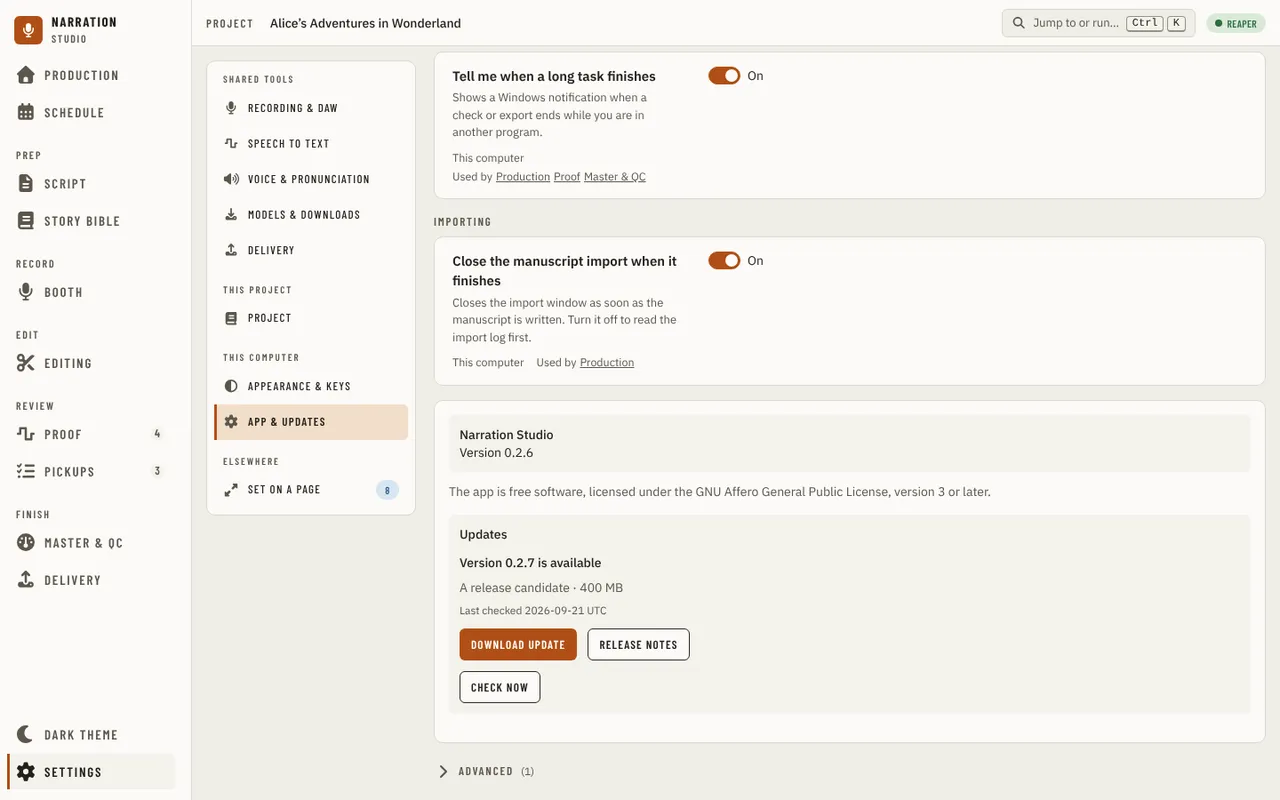
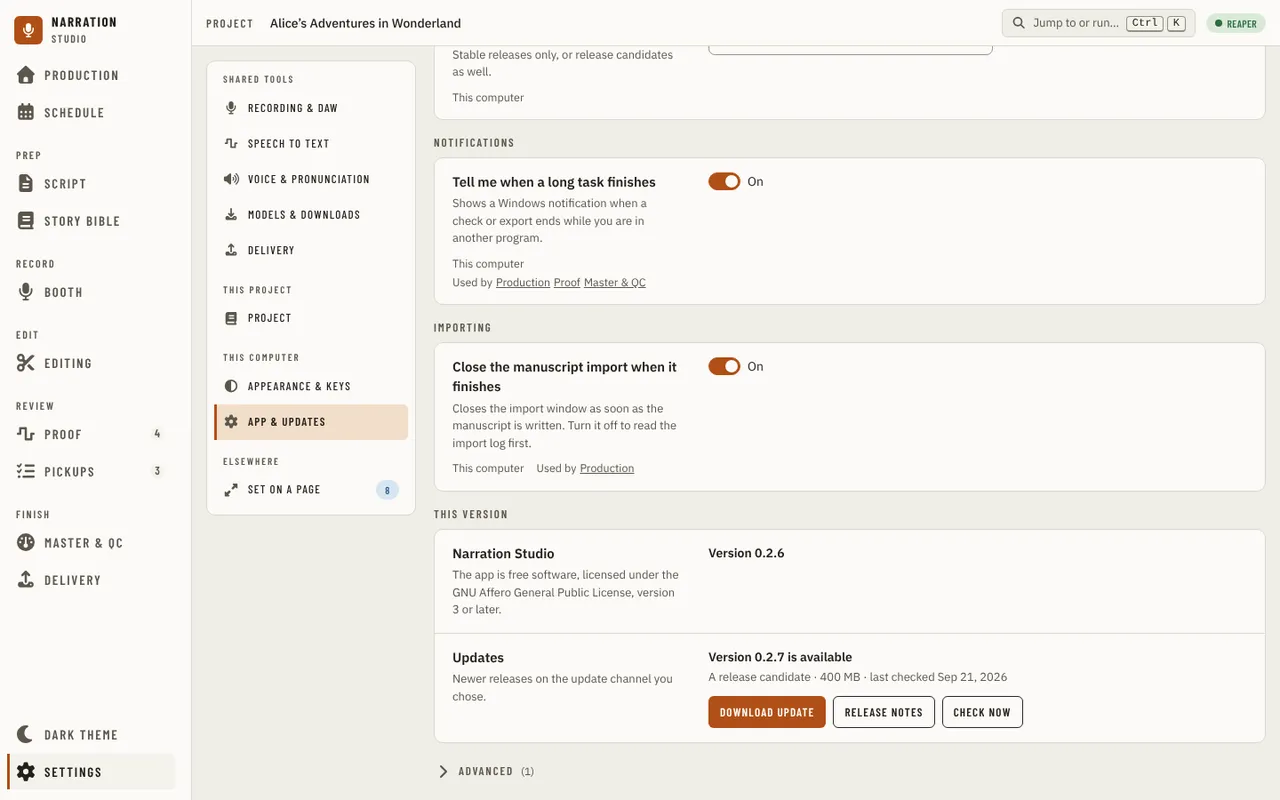
fix(settings): This version is two labelled rows with one status line and one button row (#2389)

Changed region(s): [[0.3438, 0.0625, 0.7812, 0.875], [0.5312, 0.8125, 0.8125, 0.9375], [0.5625, 0.6875, 0.5938, 0.7188]]

diff --git a/src/studio/ui/src/components/settings/UpdatesPanel.tsx b/src/studio/ui/src/components/settings/UpdatesPanel.tsx
@@ -10,9 +10,13 @@ import { brand } from '../../brand.gen';
 
 const BYTES_PER_MB = 1024 * 1024;
 
-/** The day of a check, from the host's ISO time (UTC), so the words do not change with the locale or the time zone. */
+const capitalise = (text: string): string => text.charAt(0).toUpperCase() + text.slice(1);
+
+/** The day of a check, from the host's ISO time, as the app writes a date elsewhere ("Sep 21, 2026"); read in UTC so the day does not change with the time zone. */
 function checkedDay(lastChecked: string): string {
-  return `${lastChecked.slice(0, 10)} UTC`;
+  const day = new Date(lastChecked);
+  if (Number.isNaN(day.getTime())) return lastChecked.slice(0, 10);
+  return day.toLocaleDateString('en-US', { month: 'short', day: 'numeric', year: 'numeric', timeZone: 'UTC' });
 }
 
 /**
@@ -92,74 +96,65 @@ export function UpdatesPanel() {
   );
 
   const errorAlert = error && (
-    <p role="alert" style={{ color: 'var(--danger-text)' }}>
+    <p role="alert" className="m-0 text-[var(--danger-text)]">
       {error}
     </p>
   );
-  if (!status) {
-    return errorAlert ? (
-      <div className="mb-4 rounded-md p-3 text-sm" style={{ background: 'var(--review-soft)' }}>
-        {errorAlert}
-      </div>
-    ) : null;
-  }
+  if (!status) return errorAlert ? <div className="flex flex-col gap-2 text-[0.875rem]">{errorAlert}</div> : null;
 
   const available = status.available;
+  // One headline, one muted detail line (the release, whether it is downloaded, when the app last looked), then any failure right under
+  // them, then one row of buttons with the main action first and Check now last (alignment audit R3SE1-5, XSE1-6).
+  const detail = [
+    available ? `${available.candidate ? 'A release candidate' : 'A release'} · ${Math.round(available.size / BYTES_PER_MB)} MB` : '',
+    available?.replaces && status.downloaded ? 'downloaded and checked' : '',
+    status.lastChecked ? `last checked ${checkedDay(status.lastChecked)}` : '',
+  ].filter(Boolean);
   return (
-    <div className="mb-4 space-y-3 rounded-md p-3 text-sm" style={{ background: 'var(--surface-2)' }}>
-      <div className="font-medium">Updates</div>
+    <div className="flex flex-col items-start gap-2 text-[0.875rem]" data-updates>
       {status.development ? (
-        <p style={{ color: 'var(--text-muted)' }}>Update checks are for releases. A development build is never offered an update.</p>
+        <p className="m-0 text-[var(--text-muted)]">Update checks are for releases. A development build is never offered an update.</p>
       ) : !status.platform ? (
-        <p style={{ color: 'var(--text-muted)' }}>The app has no release for this kind of computer, so there is nothing to update to.</p>
+        <p className="m-0 text-[var(--text-muted)]">The app has no release for this kind of computer, so there is nothing to update to.</p>
       ) : (
         <>
           {/* One live region for the result, so a screen reader hears what a check found; it is remembered state, not an alert. */}
-          <div role="status" className="space-y-2">
+          <div role="status" className="flex flex-col gap-0.5">
             {available ? (
-              <>
-                <div className="font-medium">Version {available.version} is available</div>
-                <div style={{ color: 'var(--text-muted)' }}>
-                  {available.candidate ? 'A release candidate' : 'A release'} · {Math.round(available.size / BYTES_PER_MB)} MB
-                </div>
-                {available.replaces && status.downloaded && <p>Version {status.downloaded.version} is downloaded and checked.</p>}
-                {available.replaces && status.downloaded && !status.canInstall && <p style={{ color: 'var(--text-muted)' }}>{status.installBlockedReason}</p>}
-                {!available.replaces && (
-                  <p style={{ color: 'var(--text-muted)' }}>
-                    This platform does not update itself. Open the release notes to download it from the release page.
-                  </p>
-                )}
-              </>
+              <b className="font-semibold">Version {available.version} is available</b>
             ) : status.failure ? null : status.lastChecked ? (
-              <p>You have the latest version.</p>
+              <b className="font-semibold">You have the latest version.</b>
             ) : (
-              <p>Not checked yet.</p>
+              <b className="font-semibold">Not checked yet.</b>
             )}
-            {status.lastChecked && (
-              <p className="text-xs" style={{ color: 'var(--text-muted)' }}>
-                Last checked {checkedDay(status.lastChecked)}
+            {status.failure && <p className="m-0 text-[var(--danger-text)]">{status.failure}</p>}
+            {detail.length > 0 && <p className="m-0 text-[0.8125rem] text-[var(--text-muted)]">{capitalise(detail.join(' · '))}</p>}
+            {available?.replaces && status.downloaded && !status.canInstall && (
+              <p className="m-0 text-[0.8125rem] text-[var(--text-muted)]">{status.installBlockedReason}</p>
+            )}
+            {available && !available.replaces && (
+              <p className="m-0 text-[0.8125rem] text-[var(--text-muted)]">
+                This platform does not update itself. Open the release notes to download it from the release page.
               </p>
             )}
-            {status.failure && <p style={{ color: 'var(--danger-text)' }}>{status.failure}</p>}
           </div>
-          {available && (
-            <div className="flex flex-wrap items-center gap-3">
-              {available.replaces && !status.downloaded && <Button onClick={() => setConfirming(true)}>Download update</Button>}
-              {available.replaces && status.downloaded && status.canInstall && <Button onClick={() => setConfirmingInstall(true)}>Install and restart</Button>}
-              {available.replaces && status.downloaded && !status.canInstall && <Button onClick={showDownload}>Show the downloaded file</Button>}
+          {errorAlert}
+          <div className="mt-1 flex flex-wrap items-center gap-2">
+            {available?.replaces && !status.downloaded && <Button onClick={() => setConfirming(true)}>Download update</Button>}
+            {available?.replaces && status.downloaded && status.canInstall && <Button onClick={() => setConfirmingInstall(true)}>Install and restart</Button>}
+            {available?.replaces && status.downloaded && !status.canInstall && <Button onClick={showDownload}>Show the downloaded file</Button>}
+            {available && (
               <Button variant="secondary" aria-label="Release notes (opens in your browser)" onClick={openNotes}>
                 Release notes
               </Button>
-            </div>
-          )}
-          <div className="flex flex-wrap items-center gap-3">
+            )}
             <Button ref={checkButton} variant="secondary" disabled={checking} onClick={() => void check()}>
               {checking ? 'Checking…' : 'Check now'}
             </Button>
           </div>
         </>
       )}
-      {errorAlert}
+      {(status.development || !status.platform) && errorAlert}
       {confirming && available && (
         <ConfirmDialog
           title={`Download version ${available.version}?`}

diff --git a/src/studio/ui/src/components/settings/UpdatesPanel.test.tsx b/src/studio/ui/src/components/settings/UpdatesPanel.test.tsx
@@ -30,7 +30,7 @@ describe('UpdatesPanel', () => {
     renderPanel(undefined);
     fireEvent.click(await screen.findByRole('button', { name: 'Check now' }));
     expect(await screen.findByText(/You have the latest version/)).toBeTruthy();
-    expect(screen.getByText(/Last checked 2026-09-21/)).toBeTruthy();
+    expect(screen.getByText(/last checked Sep 21, 2026/i)).toBeTruthy();
   });
 
   it('shows a newer release with its version, size and channel, and opens its release notes', async () => {
@@ -198,7 +198,7 @@ describe('UpdatesPanel, downloading', () => {
       expect(await screen.findByRole('dialog', { name: `Download ${brand.name} 0.2.7` })).toBeTruthy();
       await act(async () => void (await vi.advanceTimersByTimeAsync(4000)));
       fireEvent.click(await screen.findByRole('button', { name: 'Close' }));
-      expect((await screen.findAllByText('Version 0.2.7 is downloaded and checked.')).length).toBeGreaterThan(0);
+      expect(await screen.findByText(/downloaded and checked/)).toBeTruthy();
       expect(screen.queryByRole('button', { name: 'Download update' })).toBeNull();
       expect(screen.getByRole('button', { name: 'Install and restart' })).toBeTruthy();
     } finally {
@@ -213,6 +213,34 @@ describe('UpdatesPanel, downloading', () => {
     renderPanel('available', { updateStatus: async () => ({ ...found, available: { ...available, replaces: false } }) });
     await screen.findByText(/does not update itself/);
     expect(screen.queryByRole('button', { name: 'Download update' })).toBeNull();
+  });
+});
+
+// Alignment audit, App & updates (R3SE1-5, XSE1-6, R3SE1-6).
+describe('UpdatesPanel, layout', () => {
+  it('says the release once: a headline and one detail line with the date, not a second "is downloaded" sentence', async () => {
+    renderPanel('ready');
+    await screen.findByText('Version 0.2.7 is available');
+    expect(screen.queryByText(/is downloaded and checked/)).toBeNull();
+    const detail = screen.getByText(/downloaded and checked/);
+    expect(detail.textContent).toMatch(/^A release candidate · 400 MB · downloaded and checked · last checked [A-Z][a-z]{2} \d{1,2}, \d{4}$/);
+    expect(detail.textContent).not.toContain('UTC');
+  });
+
+  it('puts every button in one row, the main action first and Check now last', async () => {
+    renderPanel('ready');
+    const install = await screen.findByRole('button', { name: 'Install and restart' });
+    const row = install.parentElement!;
+    expect([...row.querySelectorAll('button')].map((button) => button.textContent)).toEqual(['Install and restart', 'Release notes', 'Check now']);
+  });
+
+  it('shows a failure under the headline, above the buttons, whatever failed', async () => {
+    renderPanel('install-refused');
+    fireEvent.click(await screen.findByRole('button', { name: 'Install and restart' }));
+    fireEvent.click(await screen.findByRole('button', { name: 'Install and restart' }));
+    const alert = await screen.findByRole('alert');
+    const check = screen.getByRole('button', { name: 'Check now' });
+    expect(alert.compareDocumentPosition(check) & Node.DOCUMENT_POSITION_FOLLOWING).toBeTruthy();
   });
 });
 

diff --git a/src/studio/ui/src/components/settings/controls/AboutSection.tsx b/src/studio/ui/src/components/settings/controls/AboutSection.tsx
@@ -1,4 +1,6 @@
+import { brand } from '../../../brand.gen';
 import { Panel } from '../../primitives/Panel';
+import { SectionLabel } from '../../primitives/SectionLabel';
 import { AboutPanel } from '../AboutPanel';
 import { UpdatesPanel } from '../UpdatesPanel';
 import { useSettingsStore } from '../data/SettingsStore';
@@ -8,18 +10,42 @@ import { useSettingsHost } from '../row/SettingsHost';
 
 const CHANNEL = rowOf('app.channel')!;
 
+// The settings row's two columns (row/SettingRowView.tsx), so the version and the updates line up with the rows above (alignment audit XSE1-7, R3SE2-18).
+const ROW =
+  'grid gap-x-8 gap-y-1.5 border-t border-[var(--border)] px-5 py-4 first:border-t-0 @min-[761px]:grid-cols-[12rem_minmax(0,1fr)] @min-[860px]:grid-cols-[minmax(12rem,16rem)_minmax(0,1fr)]';
+
 /**
- * The version, and the update check, under App & updates: what is running, whether a newer release exists on the channel set below, and the
- * download and install steps. The update panel is keyed on the channel, so it asks the host again when the channel row changes.
+ * The version, and the update check, under App & updates: what is running, whether a newer release exists on the channel set above, and the
+ * download and install steps, as two rows under their own section label. The update panel is keyed on the channel, so it asks the host
+ * again when the channel row changes.
  */
 export function AboutSection() {
   const { data } = useSettingsHost();
   const store = useSettingsStore();
   const channel = computerValue(CHANNEL, store.fieldsOf(CHANNEL).global);
   return (
-    <Panel label="This version" className="flex flex-col gap-3">
-      <AboutPanel version={data.version} />
-      <UpdatesPanel key={channel} />
-    </Panel>
+    <section aria-label="This version" className="flex flex-col">
+      <SectionLabel as="h3" className="mb-1.5">
+        This version
+      </SectionLabel>
+      <Panel flush>
+        <div className={ROW} data-about="version">
+          <div className="flex min-w-0 flex-col gap-[3px]">
+            <b className="text-[0.9375rem] font-semibold">{brand.name}</b>
+            <span className="max-w-[60ch] text-[0.8125rem] text-[var(--text-muted)]">
+              The app is free software, licensed under the GNU Affero General Public License, version 3 or later.
+            </span>
+          </div>
+          <AboutPanel version={data.version} />
+        </div>
+        <div className={ROW} data-about="updates">
+          <div className="flex min-w-0 flex-col gap-[3px]">
+            <b className="text-[0.9375rem] font-semibold">Updates</b>
+            <span className="max-w-[60ch] text-[0.8125rem] text-[var(--text-muted)]">Newer releases on the update channel you chose.</span>
+          </div>
+          <UpdatesPanel key={channel} />
+        </div>
+      </Panel>
+    </section>
   );
 }

diff --git a/src/studio/ui/src/components/settings/page/SettingsPage.test.tsx b/src/studio/ui/src/components/settings/page/SettingsPage.test.tsx
@@ -8,6 +8,7 @@ import { createMockApi } from '../../../api/mockApi';
 import { ThemeProvider } from '../../../theme/ThemeContext';
 import type { NarrationApi } from '../../../types';
 import { SettingsPage } from './SettingsPage';
+import { brand } from '../../../brand.gen';
 
 afterEach(() => {
   cleanup();
@@ -158,6 +159,24 @@ describe('Settings: page frame', () => {
     const empty = document.querySelector<HTMLElement>('[data-empty-results]')!;
     expect(empty.className).not.toContain('text-center');
     expect(empty.className).not.toContain('border-dashed');
+  });
+});
+
+// Alignment audit, App & updates (XSE1-7, R3SE2-18): the version and the updates are rows under a section label, not boxes in a box.
+describe('Settings: This version', () => {
+  it('draws the version and the updates as two labelled rows under a This version section label', async () => {
+    await renderPage();
+    pick('App & updates');
+    const section = await screen.findByRole('region', { name: 'This version' });
+    expect(within(section).getByRole('heading', { level: 3, name: 'This version' })).toBeTruthy();
+    const version = section.querySelector<HTMLElement>('[data-about="version"]')!;
+    expect(version.textContent).toContain(brand.name);
+    expect(version.textContent).toContain('GNU Affero General Public License');
+    expect(version.textContent).toMatch(/Version \S+/);
+    expect(version.className).toContain('@min-[860px]:grid-cols-[minmax(12rem,16rem)_minmax(0,1fr)]');
+    const updates = section.querySelector<HTMLElement>('[data-about="updates"]')!;
+    expect(within(updates).getByText('Updates')).toBeTruthy();
+    expect(section.querySelector('[style*="surface-2"]')).toBeNull();
   });
 });
 

diff --git a/src/studio/ui/src/components/settings/AboutPanel.tsx b/src/studio/ui/src/components/settings/AboutPanel.tsx
@@ -1,4 +1,3 @@
-import { brand } from '../../brand.gen';
 /** The development build's version: what a program built without the release stamp reports (src/studio/desktop/version.go). */
 const DEVELOPMENT_VERSION = '0.0.0-dev';
 
@@ -7,20 +6,16 @@ function isDevelopmentBuild(version: string): boolean {
   return version === '' || version === DEVELOPMENT_VERSION;
 }
 
-/** What the narrator is running: the product name and its version, from `Bootstrap`. */
+/** What the narrator is running: the version, from `Bootstrap`, and a note on a development build. The product name and the licence are the row's label. */
 export function AboutPanel({ version }: { version: string }) {
   return (
-    <div className="mb-4 space-y-3 text-sm">
-      <div className="rounded-md p-3" style={{ background: 'var(--surface-2)' }}>
-        <div className="font-medium">{brand.name}</div>
-        <div>Version {version}</div>
-        {isDevelopmentBuild(version) && (
-          <p className="mt-1" style={{ color: 'var(--text-muted)' }}>
-            This is a development build, not a release, so it has no version to compare with a newer one.
-          </p>
-        )}
-      </div>
-      <p style={{ color: 'var(--text-muted)' }}>The app is free software, licensed under the GNU Affero General Public License, version 3 or later.</p>
+    <div className="flex flex-col gap-0.5 text-[0.875rem]">
+      <b className="font-semibold">Version {version}</b>
+      {isDevelopmentBuild(version) && (
+        <p className="m-0 text-[0.8125rem] text-[var(--text-muted)]">
+          This is a development build, not a release, so it has no version to compare with a newer one.
+        </p>
+      )}
     </div>
   );
 }

diff --git a/src/studio/ui/src/components/settings/AboutPanel.test.tsx b/src/studio/ui/src/components/settings/AboutPanel.test.tsx
@@ -2,14 +2,13 @@
 import { cleanup, render, screen } from '@testing-library/react';
 import { afterEach, describe, expect, it } from 'vitest';
 import { AboutPanel } from './AboutPanel';
-import { brand } from '../../brand.gen';
 
 afterEach(cleanup);
 
 describe('AboutPanel', () => {
-  it('names the application and shows the version the host reports', () => {
+  // The product name moved to the row's label (controls/AboutSection.tsx); SettingsPage.test.tsx checks it there.
+  it('shows the version the host reports', () => {
     render(<AboutPanel version="0.2.7" />);
-    expect(screen.getByText(`${brand.name}`)).toBeTruthy();
     expect(screen.getByText('Version 0.2.7')).toBeTruthy();
     expect(screen.queryByText(/development build/i)).toBeNull();
   });

diff --git a/docs/design/design-system.md b/docs/design/design-system.md
@@ -222,6 +222,8 @@ The Settings page always keeps every setting. A working page may also offer a co
 
 **Adding a field.** Add it to `fieldSchemas` (Go) and give it a default in `config/defaults.json` and in `builtinDefaults` (`internal/settings/store.go`; a test keeps them equal) and in `mockFixtures.ts`. It needs no visual-suite work unless it is a new panel, which is a new `settings` catalog row with `...REFLOW`. The suite then checks the row at 390 px: a text box or select narrower than 64 px fails, and the PNG at `screenshots/app/settings/<state>/reflow.png` is one to look at with the other viewports. The first `bool` field also needs its own state so the Switch row is captured; none ships yet (the notification and Build Story Bible after import settings, are the first).
 
+**This version.** App & updates ends with a **This version** section: a section label and a flush card of two rows in the settings row's columns, the product name and licence beside the version, and **Updates** beside one status block (a headline, one muted detail line with the day of the last check written "Sep 21, 2026", any failure under them, then one wrapping row of buttons with the main action first and **Check now** last). It replaces two grey boxes and a loose licence line inside an unlabelled card (alignment audit XSE1-7, R3SE2-18, R3SE1-5, XSE1-6).
+
 **Models & downloads.** The Models & downloads list is one table row per asset (`src/studio/ui/src/components/settings/models/AssetRow.tsx`): the asset name and what it is for, a status badge in words, the pages that read it, a `ProgressBar` while it downloads, a failure as `role="alert"` in the row, and its actions as icon buttons in the last cell, right-aligned. The columns are fixed (`Table columns`, `ASSET_COLUMNS`: the name takes what is left, Status 12rem, Used by 18rem, actions 6.5rem), so the table keeps one shape in every state and no column wraps its links early (alignment audit XSE1-5, XSE2-25). Below the page container's 1020 px the table becomes cards on `--surface`, one per asset: the name with its actions at the top right, then Status and Used by, each named by its label (XSE2-27). The disk bar keeps **Open folder** at its right end, and the Story Bible analysis tools sit in an untitled card under their section label, like the list above them (XSE1-17). The segmented filter stays on one line and scrolls sideways when the page is narrower. The page announces progress and results in one live region.
 
 **Known at 390 px, outside Settings** (found by a one-off sweep of every state at that width; the collapsed-control check passes everywhere): the Proofing results header and table (#148), the Home chapter table (#149) and a three-action confirm dialog (#150) are clipped or cramped. They need layout decisions and are reachable only by zoom, since the shell's minimum window is 960 px.

diff --git a/docs/guides/using-the-app/settings.md b/docs/guides/using-the-app/settings.md
@@ -274,8 +274,9 @@ replacing the manuscript keeps it; if its lines are gone, the panel says so and 
 
 ### About and updates
 
-Under the rows of **App & updates**, **This version** shows which version of the app you are running and looks
-after updates.
+Under the rows of **App & updates**, the **This version** section has two rows: the version of the app you are running,
+and **Updates**, which says what the last check found in one line (the release, its size, whether it is downloaded and
+the day the app last looked), any problem right under it, and the buttons in one row with **Check now** last.
 
 ![Settings - App & updates with a newer version found](../../images/ui/settings-about-updates.webp)
 
